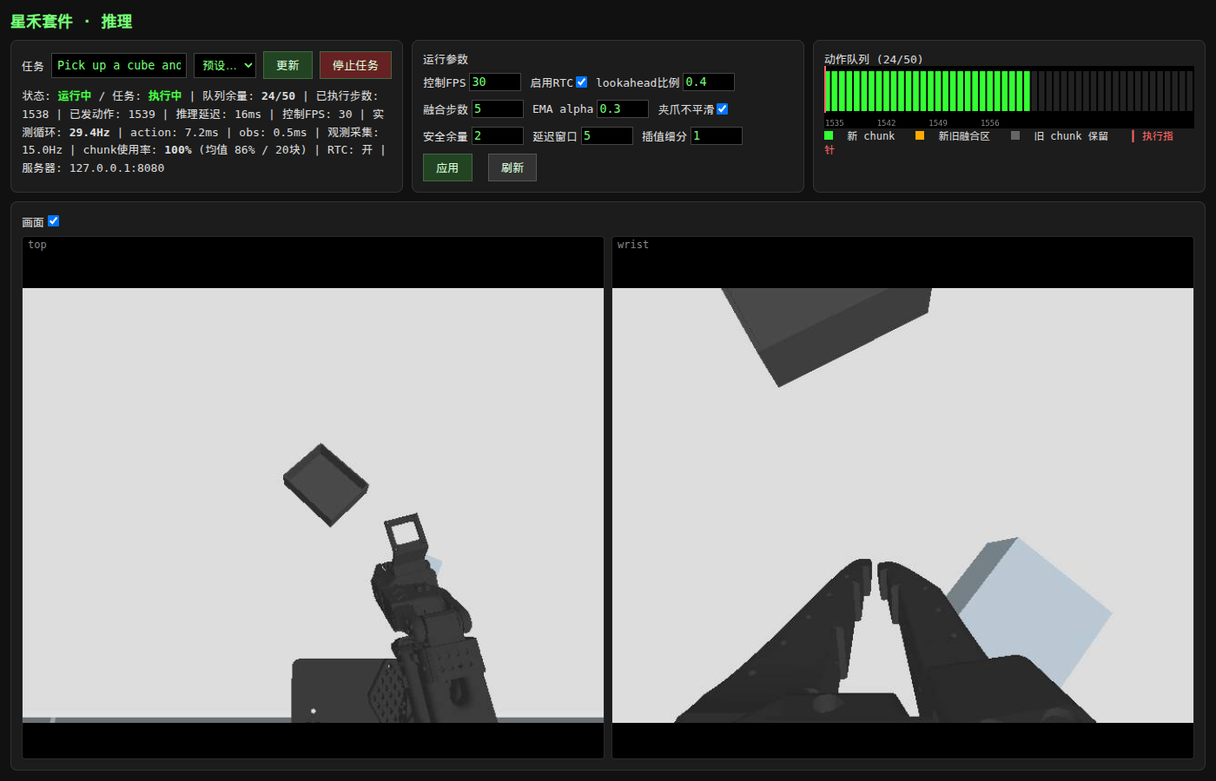
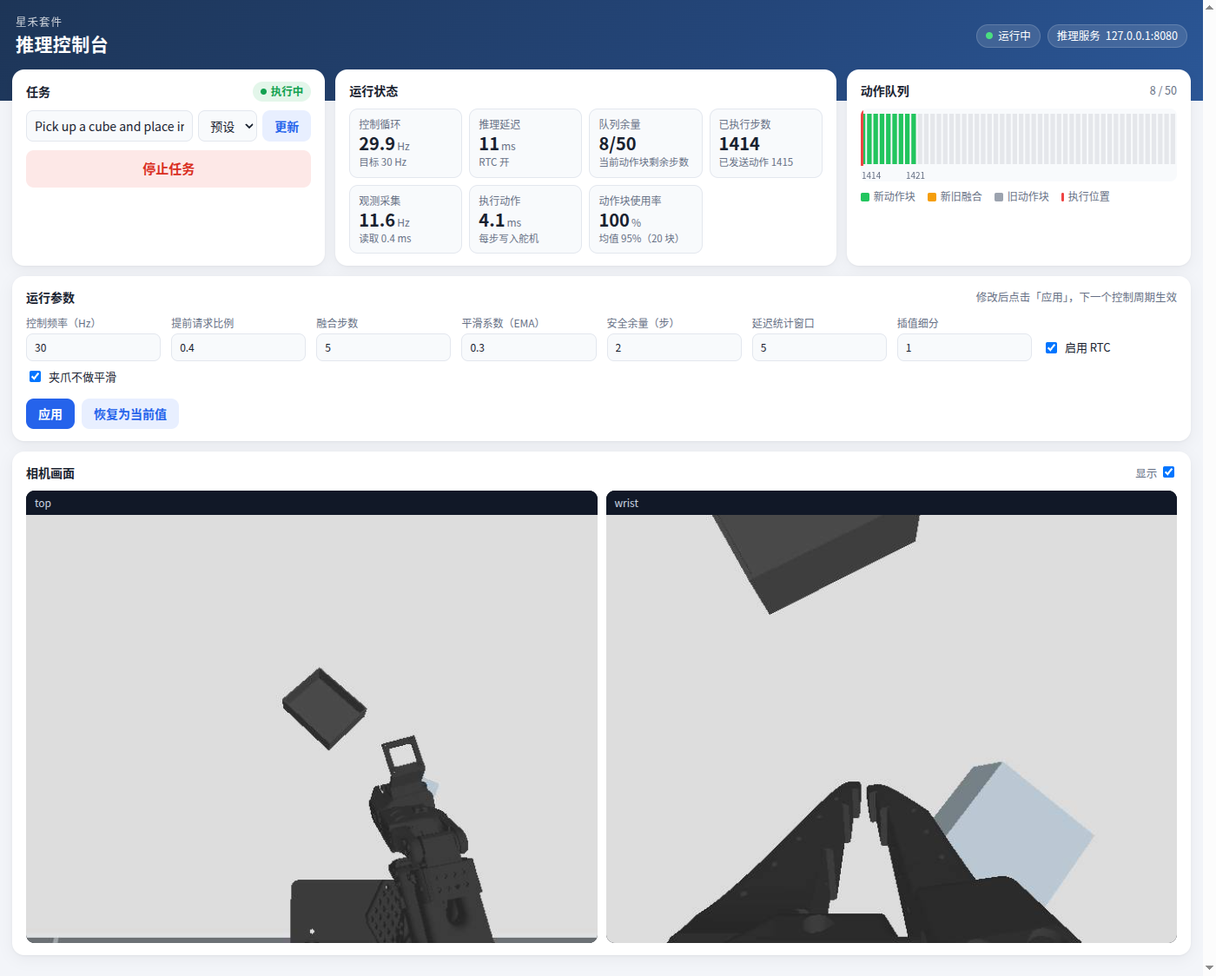
docs: 按使用者的位置重写：标明每步在哪台设备上操作；连接训练电脑提前到 2.6；看曲线分训练电脑在身边、经端侧计算平台转发、经自己电脑 SSH 转发三种，并给出 wandb
- 第 2 章开头说明三台设备与训练电脑在身边 / 在远处两种情况；安装 tmux
- 3.3 拷贝改为从端侧计算平台推送，训练电脑在远处也适用；3.4 补远程查看数据（distant 模式 + SSH 转发）
- 4.1 远程训练用 tmux；4.2 TensorBoard 两步：启动、按所在位置打开
- 推理控制台截图换成新版界面

diff --git a/docs/deploy.md b/docs/deploy.md
@@ -8,55 +8,30 @@
 
 <video controls muted playsinline preload="metadata" poster="_static/poster/deploy.jpg" src="_static/media/deploy.mp4"></video>
 
-本章按顺序启动推理服务、让端侧计算平台连接训练电脑、启动推理控制台。开始前请确认：已完成前四章，两边的 LeRobot 为同一版本，并有一个训练好的模型：第 4 章训练得到的模型，或我们发布的 [`Harrysunshine/so101-act-sim-real-cube`](https://huggingface.co/Harrysunshine/so101-act-sim-real-cube)。
+本章先在训练电脑上启动推理服务，再在端侧计算平台上启动推理控制台。开始前请确认：
+
+- 已完成前四章，两边的 LeRobot 为同一版本；
+- 端侧计算平台已按 [2.6 节](#connect-server) 连接训练电脑，并映射了「推理服务（8080）」；
+- 有一个训练好的模型：第 4 章训练得到的模型，或我们发布的 [`Harrysunshine/so101-act-sim-real-cube`](https://huggingface.co/Harrysunshine/so101-act-sim-real-cube)。
 
 (deploy-server)=
 ## 5.1 在训练电脑上启动推理服务
 
-在训练电脑上进入环境（[2.2 节](#train-env-setup)），执行：
+在**训练电脑的终端**中执行（训练电脑在远处时，建议在 tmux 中运行，见 [4.1 节](#train-run)）：
 
 ```bash
+cd ~/xbotics && source .venv/bin/activate
 python -m lerobot.async_inference.policy_server --host=127.0.0.1 --port=8080 --fps=30
 ```
 
-`--host=127.0.0.1` 表示推理服务只在本机监听，端侧计算平台经 5.2 节的连接访问它，电脑无需对外开放端口。推理服务不预先加载模型，端侧计算平台连接时指定使用哪个模型。部署期间保持这个终端打开，按 `Ctrl+C` 停止。
+推理服务只在训练电脑本机监听，端侧计算平台经 2.6 节的连接访问它，训练电脑无需对外开放端口。推理服务不预先加载模型，端侧计算平台连接时指定使用哪个模型。部署期间保持它运行，按 `Ctrl+C` 停止。
 
-(connect-server)=
-## 5.2 让端侧计算平台连接训练电脑
-
-在网络设置页（[1.2 节](#board-network)）的「连接服务器」标签中添加训练电脑，端侧计算平台会把电脑上的推理服务与 TensorBoard 映射到本机。电脑需先开启 SSH 服务，见 [2.5 节](#train-env-ssh)。推理与训练可以在同一台电脑上，也可以在不同的电脑上，每台电脑分别添加一次。
-
-1. 点击「添加服务器」，填写**名称**（便于区分，如「推理服务器」「训练服务器」）、**服务器地址**（电脑的 IP）、**SSH 端口**（通常为 22）、**账号**（电脑上的用户名）。
-2. 登录方式选择**账号密码**，填写该账号的密码。也可以选择**私钥**，将私钥完整粘贴进去，或点击「选择文件」。
-3. 在表单下方点击这台电脑提供的服务，添加映射：
-
-| 按钮 | 端侧端口 | 电脑上的端口 | 用途 |
-| --- | --- | --- | --- |
-| 推理服务（8080） | 8080 | 8080 | 推理控制台经它连接推理服务 |
-| TensorBoard（6006） | 6006 | 6006 | 查看训练曲线 |
-
-![添加服务器：填写名称、地址、账号与密码，点击下方按钮添加映射](images/use-18-add-server.png)
-
-4. 点击「保存并连接」。几秒后这台电脑的卡片右上角变为绿色「已连接」，每条映射标出状态：「畅通」表示电脑上该端口的服务已在运行；「服务器上该端口无服务」表示连接已建立，只是电脑上尚未启动该服务。
-
-![两台电脑均已连接：推理服务器上的推理服务与训练服务器上的 TensorBoard 均畅通](images/use-16-connect-server.png)
-
-连接后，端侧计算平台上的程序访问 `127.0.0.1:8080`，即访问训练电脑上的推理服务；在任意一台电脑的浏览器中打开 `http://<端侧IP>:6006`，即为训练电脑上的 TensorBoard，也可以点击映射旁的「打开」。网络中断或电脑重启后会自动重新连接，端侧计算平台重启后也会自动连接。每张卡片可以「编辑」「断开」「删除」。
-
-连接失败时，卡片中以中文给出原因：
-
-| 提示 | 处理 |
-| --- | --- |
-| 登录被拒 | 账号或密码不正确。修改后再次点击「保存并连接」；端侧计算平台不会用错误的密码反复重试，避免电脑锁定该账号 |
-| 找不到该服务器地址、连不上服务器 | 地址填写错误，或端侧计算平台与这台电脑不在同一网络 |
-| 服务器指纹已变化 | 电脑重新安装过系统，再次点击「保存并连接」即可 |
-
-![在电脑上经端侧计算平台打开训练电脑上的 TensorBoard](images/use-17-tensorboard.png)
+启动后，打开端侧计算平台网络设置页的「连接服务器」标签，推理服务一条映射应显示「畅通」。
 
 (deploy-console)=
-## 5.3 启动推理控制台
+## 5.2 启动推理控制台
 
-在端侧计算平台的网页终端（[1.1 节](#xbotics-config)）中，先设置相机变量（[1.7 节](#camera-var)），再执行：
+在**端侧计算平台的网页终端**（[1.1 节](#xbotics-config)）中，先设置相机变量（[1.7 节](#camera-var)），再执行：
 
 ```bash
 lerobot-inference-console \
@@ -81,21 +56,21 @@ lerobot-inference-console \
 /home/<用户名>/xbotics/outputs/train/act_pick_cube/checkpoints/last/pretrained_model
 ```
 
-启动后，推理服务加载模型（首次需要下载，耗时稍长），随后机械臂开始按模型的动作运动。在浏览器中打开 `http://<端侧IP>:8007`，即可看到相机画面、任务状态、动作队列与推理延迟：点击「停止任务」，机械臂停止执行动作，按钮变为「启动任务」，点击即继续；在「任务」框中修改任务描述后点击「更新」，下一次推理即使用新的描述。按网页终端中的 `Ctrl+C` 结束部署。
+启动后，推理服务加载模型（首次需要下载，耗时稍长），随后机械臂开始按模型的动作运动。在你的电脑或手机的浏览器中打开 `http://<端侧IP>:8007`，即可看到相机画面、任务状态、动作队列与推理延迟：点击「停止任务」，机械臂停止执行动作，按钮变为「启动任务」，点击即继续；在「任务」框中修改任务描述后点击「更新」，下一次推理即使用新的描述。按网页终端中的 `Ctrl+C` 结束部署。
 
-![推理控制台：上方为任务与运行状态、运行参数与动作队列，下方为两路相机画面（图为 5.5 节仿真中的运行）](images/use-22-inference-console.png)
+![推理控制台：上方为任务、运行状态与动作队列，中间为运行参数，下方为两路相机画面（图为 5.4 节仿真中的运行）](images/use-22-inference-console.png)
 
 推理控制台没有登录验证，同一网络中的任何人都能打开，请只在自己的局域网中使用。
 
-## 5.4 第一次上真机
+## 5.3 第一次上真机
 
 - 清空工作区，只留下物体与料盒；相机位置、光线与物体摆放尽量与录制数据时一致
 - 手放在电源开关旁，模型第一次运行时动作可能比预想的大，发现异常立即断电
 - `--robot.id` 须与标定时一致，`$CAMERAS` 中的相机名须与训练所用数据集一致
 
-## 5.5 没有机械臂时用仿真
+## 5.4 没有机械臂时用仿真
 
-把推理控制台连接的机器人换成 SO-101 仿真，整条部署链路即可在训练电脑上走通，适合先确认模型与推理服务工作正常。推理服务按 5.1 节启动，在训练电脑上另开一个终端，进入环境后执行：
+把推理控制台连接的机器人换成 SO-101 仿真，整条部署链路即可在训练电脑上走通，适合先确认模型与推理服务工作正常。推理服务按 5.1 节启动，在**训练电脑**上另开一个终端，进入环境后执行：
 
 ```bash
 python -c "import so101_sim.config_lerobot_robot; from lerobot.xbotics.inference_console.client import main; main()" \
@@ -104,6 +79,6 @@ python -c "import so101_sim.config_lerobot_robot; from lerobot.xbotics.inference
   --server_host=127.0.0.1 --server_port=8080 --actions_per_chunk=50 --fps=30
 ```
 
-第一行先导入仿真机器人的配置，其余参数与真机相同。在浏览器中打开 `http://localhost:8007`，界面与 5.3 节的图相同：画面中是仿真里的两路相机，状态为「运行中」、动作队列持续刷新，即表示模型与推理服务工作正常。
+第一行先导入仿真机器人的配置，其余参数与真机相同。在训练电脑的浏览器中打开 `http://localhost:8007`（训练电脑在远处时，按 4.2 节第三种方式把 8007 端口转发到你的电脑），界面与 5.2 节的图相同：画面中是仿真里的两路相机，状态为「运行中」、动作队列持续刷新，即表示模型与推理服务工作正常。
 
 到这里，你已经走完了从硬件准备、录制数据、训练到部署的整条流程。录制数据时如何设计任务、训练时如何选择模型与调整参数、上真机前如何评测，属于 Xbotics 具身智能课程的内容。

diff --git a/docs/train-env.md b/docs/train-env.md
@@ -1,6 +1,14 @@
 # 第 2 章 训练电脑
 
-训练、仿真评测与推理都在一台配有 NVIDIA 显卡的 x86 电脑上进行，操作系统为 Ubuntu。本章在这台电脑上安装 LeRobot 与 SO-101 仿真，并使端侧计算平台能够连接它。
+训练、仿真评测与推理都在一台配有 NVIDIA 显卡的 x86 电脑上进行，操作系统为 Ubuntu，下称**训练电脑**。整个流程会用到三台设备：
+
+| 设备 | 做什么 | 怎么操作 |
+| --- | --- | --- |
+| 端侧计算平台 | 连接机械臂与相机，录制数据、执行动作 | 在浏览器中打开它的网页终端 |
+| 训练电脑 | 训练模型、运行推理服务 | 坐在它前面直接用，或从你的电脑经 SSH 登录 |
+| 你的电脑或手机 | 打开各个网页：网页终端、训练曲线、推理控制台 | 浏览器 |
+
+训练电脑可以就在你身边（接显示器的台式机），也可以在机房或云上、只能经 SSH 登录。两种情况的做法只在少数几处不同，本书在这些地方分开写明。本章的命令都在**训练电脑的终端**中执行。
 
 ## 2.1 显卡驱动
 
@@ -16,7 +24,7 @@ nvidia-smi
 使用 uv 管理 Python 与依赖。先安装系统工具与 uv：
 
 ```bash
-sudo apt install -y git ffmpeg curl
+sudo apt install -y git ffmpeg curl tmux
 curl -LsSf https://astral.sh/uv/install.sh | sh
 source ~/.local/bin/env
 ```
@@ -47,13 +55,17 @@ source .venv/bin/activate
 | 组 | 作用 |
 | --- | --- |
 | `training`、`evaluation` | 训练与评测，查看训练曲线所用的 TensorBoard 与 wandb 也包含在 `training` 中 |
-| `dataset`、`viz` | 读写数据集、可视化 |
-| `async` | 远程推理服务端 |
+| `dataset`、`viz` | 读写数据集、查看数据 |
+| `async` | 推理服务 |
 | `smolvla` | SmolVLA 模型 |
 | `feetech` | 舵机驱动 |
 | `xbotics_tools` | 网页硬件检测、网页标定、推理控制台 |
 
-SO-101 仿真随 LeRobot 一同安装，无需另行安装。此后每次打开新终端，进入该目录后执行 `source .venv/bin/activate` 进入环境。
+SO-101 仿真随 LeRobot 一同安装，无需另行安装。此后每打开一个新终端（或新的 SSH 窗口），都先执行下面一行进入环境，本书后面的命令默认已进入环境：
+
+```bash
+cd ~/xbotics && source .venv/bin/activate
+```
 
 ## 2.3 检查
 
@@ -73,21 +85,51 @@ hf auth login
 ```
 
 (train-env-ssh)=
-## 2.5 允许端侧计算平台连接这台电脑
+## 2.5 开启 SSH 服务
 
-端侧计算平台通过 SSH 连接这台电脑（[5.2 节](#connect-server)），因此需先安装 SSH 服务，并记下这台电脑的 IP。推理与训练分在两台电脑上时，两台都按本节设置：
+端侧计算平台经 SSH 连接训练电脑：拷贝数据、查看训练曲线、部署都要用到。在训练电脑上安装 SSH 服务，并查看它的 IP：
 
 ```bash
 sudo apt install -y openssh-server
 hostname -I
 ```
 
-`hostname -I` 输出的第一个地址，即端侧计算平台网络设置页中「服务器地址」应填写的内容；账号与密码即你登录这台电脑所用的账号与密码。推理服务与 TensorBoard 默认只在本机监听，端侧计算平台经 SSH 接入，电脑无需对外开放其他端口。
+记下 `hostname -I` 输出的第一个地址（下称 `<训练电脑IP>`），以及你登录这台电脑所用的用户名与密码。云服务器通常已开启 SSH，`<训练电脑IP>` 用服务商给出的地址。端侧计算平台必须能访问这个地址：两者在同一个局域网中，或训练电脑有公网地址。
+
+(connect-server)=
+## 2.6 让端侧计算平台连接训练电脑
+
+这一步让端侧计算平台把训练电脑上的两个服务转发到自己身上：
+
+- **TensorBoard（6006）**：你的电脑打开 `http://<端侧IP>:6006` 即可看到训练曲线，训练电脑在远处时也一样；
+- **推理服务（8080）**：部署时端侧计算平台上的推理控制台经它访问推理服务。
+
+在你的电脑或手机上打开端侧计算平台的网络设置页（[1.2 节](#board-network)），进入「连接服务器」标签：
+
+1. 点击「添加服务器」，填写**名称**（便于区分，如「训练电脑」）、**服务器地址**（`<训练电脑IP>`）、**SSH 端口**（通常为 22）、**账号**（训练电脑上的用户名）。
+2. 登录方式选择**账号密码**，填写该账号的密码。也可以选择**私钥**，将私钥完整粘贴进去，或点击「选择文件」。
+3. 在表单下方点击「推理服务（8080）」与「TensorBoard（6006）」，添加两条映射。
+
+![添加服务器：填写名称、地址、账号与密码，点击下方按钮添加映射](images/use-18-add-server.png)
+
+4. 点击「保存并连接」。几秒后卡片右上角变为绿色「已连接」，每条映射标出状态：「畅通」表示训练电脑上该服务正在运行；「服务器上该端口无服务」表示连接已建立，只是训练电脑上还没有启动该服务（启动 TensorBoard 见 [4.2 节](#train-curves)，启动推理服务见 [5.1 节](#deploy-server)），启动后自动变为「畅通」。
+
+推理与训练也可以分在两台电脑上，每台分别添加一次，各自映射对应的服务。下图是这种情况：推理服务器提供推理服务，训练服务器提供 TensorBoard。
+
+![两台电脑均已连接，各自的映射畅通](images/use-16-connect-server.png)
+
+连接会一直保持：网络中断或训练电脑重启后自动重新连接，端侧计算平台重启后也会自动连接。每张卡片可以「编辑」「断开」「删除」。连接失败时，卡片中以中文给出原因：
+
+| 提示 | 处理 |
+| --- | --- |
+| 登录被拒 | 账号或密码不正确。修改后再次点击「保存并连接」；端侧计算平台不会用错误的密码反复重试，避免训练电脑锁定该账号 |
+| 找不到该服务器地址、连不上服务器 | 地址填写错误，或端侧计算平台访问不到训练电脑，见 2.5 节 |
+| 服务器指纹已变化 | 训练电脑重新安装过系统，再次点击「保存并连接」即可 |
 
 (train-env-upgrade)=
-## 2.6 升级
+## 2.7 升级
 
-端侧计算平台升级时（[1.1 节](#board-upgrade)），这台电脑也需同步升级，保持同一版本：
+端侧计算平台升级时（[1.1 节](#board-upgrade)），训练电脑也需同步升级，保持同一版本：
 
 ```bash
 cd ~/xbotics && uv lock --upgrade-package lerobot && uv sync

diff --git a/docs/train.md b/docs/train.md
@@ -1,9 +1,11 @@
 # 第 4 章 训练
 
-本章在训练电脑上用录好的数据训练一个 ACT 模型，训练过程中用 TensorBoard 或 wandb 查看曲线，训练完成后得到可以部署的模型。命令均在训练电脑上、`~/xbotics` 目录中进入环境后执行（[2.2 节](#train-env-setup)）。
+本章在训练电脑上用录好的数据训练一个 ACT 模型，训练过程中查看曲线，训练完成后得到可以部署的模型。训练命令在**训练电脑的终端**中执行，查看曲线在**你的电脑或手机的浏览器**中进行。
 
 (train-run)=
 ## 4.1 开始训练
+
+训练电脑在远处、经 SSH 登录时，先执行 `tmux new -s train` 进入一个 tmux 会话，再在其中启动训练：这样关掉 SSH 窗口或网络断开，训练也不会中断。之后需要回来查看时，重新 SSH 登录并执行 `tmux attach -t train`；在会话中按 `Ctrl+B` 后再按 `D` 即可离开，训练继续运行。训练电脑就在身边时，直接在终端中执行即可。
 
 ```bash
 cd ~/xbotics && source .venv/bin/activate
@@ -27,16 +29,30 @@ lerobot-train \
 (train-curves)=
 ## 4.2 用 TensorBoard 查看曲线
 
-`lerobot-train` 默认把曲线写入输出目录下的 `tensorboard` 中，无需账号与网络。训练开始后另开一个终端，进入环境后执行：
+`lerobot-train` 默认把曲线写入输出目录下的 `tensorboard` 中，无需账号与网络。查看分两步：在训练电脑上启动 TensorBoard，再在浏览器中打开它。
+
+**第一步，在训练电脑上启动 TensorBoard。** 另开一个终端（训练电脑在远处时，另开一个 SSH 窗口，同样建议在 tmux 中运行，例如 `tmux new -s tb`），执行：
 
 ```bash
 cd ~/xbotics && source .venv/bin/activate
 tensorboard --logdir outputs/train
 ```
 
-在浏览器中打开 `http://localhost:6006`，数秒内即可看到新的数据点。`--logdir` 指定 `outputs/train` 时，可同时比较多次训练。要在其他电脑上查看，按 [5.2 节](#connect-server) 让端侧计算平台连接这台电脑后，打开 `http://<端侧IP>:6006`。
+终端显示 `TensorBoard ... at http://localhost:6006/` 即已启动，保持它运行。`--logdir` 指定 `outputs/train` 时，可同时比较多次训练。
+
+**第二步，在浏览器中打开。** TensorBoard 只在训练电脑本机监听，按你所在的位置选择一种方式：
+
+| 你在哪里 | 怎么打开 |
+| --- | --- |
+| 坐在训练电脑前 | 在训练电脑的浏览器中打开 `http://localhost:6006` |
+| 在端侧计算平台所在的网络中，且已按 [2.6 节](#connect-server) 连接训练电脑 | 在你的电脑或手机上打开 `http://<端侧IP>:6006`，或在网络设置页「打开网页」标签中点击 TensorBoard |
+| 在其他地方，能经 SSH 登录训练电脑 | 在你的电脑上另开一个终端执行 `ssh -N -L 6006:127.0.0.1:6006 <用户名>@<训练电脑IP>` 并保持窗口打开，再在浏览器中打开 `http://localhost:6006` |
+
+第二种方式由端侧计算平台转发：网络设置页「连接服务器」中 TensorBoard 一条映射显示「畅通」，即可打开。第三种方式由你电脑上的 SSH 转发，Windows 在 PowerShell 中同样可以执行这条命令。
 
 ![训练曲线：损失、梯度、吞吐与显存](images/use-17-tensorboard.png)
+
+数秒内即可看到新的数据点。各条曲线的含义：
 
 | 曲线 | 含义 |
 | --- | --- |
@@ -50,7 +66,7 @@ tensorboard --logdir outputs/train
 (train-wandb)=
 ## 4.3 用 wandb 查看曲线
 
-wandb 把曲线上传到网页，换一台电脑、在手机上也能查看。先在 [wandb.ai](https://wandb.ai) 注册账号，在训练电脑上登录一次，按提示粘贴网页上给出的 API key：
+wandb 把曲线上传到它的网站，在任何地方的浏览器中登录即可查看，不需要任何转发，训练电脑在远处时最省事；前提是训练电脑能访问外网。先在 [wandb.ai](https://wandb.ai) 注册账号，在训练电脑上登录一次，按提示粘贴网页上给出的 API key：
 
 ```bash
 wandb login
@@ -66,7 +82,7 @@ lerobot-train \
   --wandb.enable=true
 ```
 
-训练开始后，终端会给出本次训练的网址；也可以在 wandb 网页上的 `lerobot` 项目中找到它。曲线的名字与 TensorBoard 相同，TensorBoard 照常写入，两者可同时使用。
+训练开始后，终端会给出本次训练的网址；也可以在 wandb 网站的 `lerobot` 项目中找到它。曲线的名字与 TensorBoard 相同，TensorBoard 照常写入，两者可同时使用。
 
 (train-output)=
 ## 4.4 训练结果
@@ -81,7 +97,7 @@ outputs/train/act_pick_cube/checkpoints/
 └── last -> 100000
 ```
 
-部署时使用其中的 `pretrained_model` 目录，例如 `~/xbotics/outputs/train/act_pick_cube/checkpoints/last/pretrained_model`，见 [5.3 节](#deploy-console)。
+部署时使用其中的 `pretrained_model` 目录，例如 `~/xbotics/outputs/train/act_pick_cube/checkpoints/last/pretrained_model`，见 [5.2 节](#deploy-console)。
 
 ## 4.5 中断后继续训练
 

diff --git a/docs/record.md b/docs/record.md
@@ -2,7 +2,7 @@
 
 录制时，操作者握持主臂完成任务，从臂同步跟随，端侧计算平台把两路相机画面、从臂的关节读数与主臂给出的动作一同保存为数据集。录好后可以在端侧计算平台上回放检查，再拷贝到训练电脑查看与训练。
 
-本章的录制与回放在端侧计算平台的网页终端中执行，开始前请完成第 1 章，并设置相机变量（[1.7 节](#camera-var)）。没有机械臂、或想先走通后面的训练与部署，可以直接使用我们开源的数据，见 [3.5 节](#open-data)。
+录制、回放与拷贝在**端侧计算平台的网页终端**中执行，开始前请完成第 1 章，并设置相机变量（[1.7 节](#camera-var)）；查看数据在训练电脑上进行。没有机械臂、或想先走通后面的训练与部署，可以直接使用我们开源的数据，见 [3.5 节](#open-data)。
 
 ## 3.1 录制
 
@@ -55,18 +55,19 @@ lerobot-replay \
 (record-copy)=
 ## 3.3 拷贝到训练电脑
 
-在**训练电脑**的终端中执行，密码为 `123456`：
+在**端侧计算平台的网页终端**中执行，把数据集推送到训练电脑的 `~/data` 中。`<用户名>` 与 `<训练电脑IP>` 见 [2.5 节](#train-env-ssh)，每条命令会提示输入训练电脑的密码，首次连接时先输入 `yes`：
 
 ```bash
-mkdir -p ~/data && scp -r root@<端侧IP>:data/pick_cube ~/data/
+ssh <用户名>@<训练电脑IP> mkdir -p data
+scp -r ~/data/pick_cube <用户名>@<训练电脑IP>:data/
 ```
 
-完成后，训练电脑上的 `~/data/pick_cube` 即为这份数据集，后续查看与训练都使用这个路径。
+训练电脑在近处、远处都适用。训练电脑的 SSH 端口不是 22 时，在 `ssh` 后加 `-p <端口>`，在 `scp` 后加 `-P <端口>`。完成后，训练电脑上的 `~/data/pick_cube` 即为这份数据集，后续查看与训练都使用这个路径。
 
 (record-viz)=
 ## 3.4 查看数据
 
-在训练电脑上进入环境（[2.2 节](#train-env-setup)），逐集查看录下的数据：
+逐集查看录下的画面与曲线。训练电脑在你身边时，在**训练电脑的终端**中执行：
 
 ```bash
 lerobot-dataset-viz --repo-id local/pick_cube --root ~/data/pick_cube --episode-index 0
@@ -76,10 +77,33 @@ lerobot-dataset-viz --repo-id local/pick_cube --root ~/data/pick_cube --episode-
 
 ![Rerun 查看器：开源数据中「将方块放入料盒」的一集](images/use-23-dataset-viz.png)
 
+**训练电脑在远处、没有显示器时**，让它以网页形式提供查看器，再从你的电脑经 SSH 转发打开：
+
+1. 在训练电脑上（经 SSH 登录后）执行：
+
+```bash
+lerobot-dataset-viz --repo-id local/pick_cube --root ~/data/pick_cube --episode-index 0 \
+  --mode distant --web-port 9090 --grpc-port 9876
+```
+
+2. 在**你的电脑**上另开一个终端（Windows 用 PowerShell），执行下面一行并保持窗口打开：
+
+```bash
+ssh -N -L 9090:127.0.0.1:9090 -L 9876:127.0.0.1:9876 <用户名>@<训练电脑IP>
+```
+
+3. 在你的电脑的浏览器中打开下面的网址，界面与上图相同：
+
+```text
+http://localhost:9090/?url=rerun%2Bhttp%3A%2F%2Flocalhost%3A9876%2Fproxy
+```
+
+看完后在两个窗口中分别按 `Ctrl+C` 结束。
+
 (open-data)=
 ## 3.5 使用开源数据
 
-我们录制并开源了九个任务的 SO-101 真机数据，格式与 3.1 节录制的数据相同，可以直接用于训练。在训练电脑上下载其中「将方块放入料盒」一个任务：
+我们录制并开源了九个任务的 SO-101 真机数据，格式与 3.1 节录制的数据相同，可以直接用于训练。在**训练电脑的终端**中下载其中「将方块放入料盒」一个任务：
 
 ```bash
 uvx modelscope download --dataset zhuzhuangtian/so101-pick-place-tasks \

diff --git a/docs/hardware.md b/docs/hardware.md
@@ -15,8 +15,8 @@
 | `http://<端侧IP>:8004` | 浏览器版 VS Code | 服务开启时 |
 | `http://<端侧IP>:8005` | 硬件检测 | 服务开启时 |
 | `http://<端侧IP>:8006` | 网页标定 | 服务开启时 |
-| `http://<端侧IP>:8007` | 推理控制台 | 部署期间，见 [5.3 节](#deploy-console) |
-| `http://<端侧IP>:6006` | 训练电脑上的 TensorBoard | 已连接训练电脑时，见 [5.2 节](#connect-server) |
+| `http://<端侧IP>:8007` | 推理控制台 | 部署期间，见 [5.2 节](#deploy-console) |
+| `http://<端侧IP>:6006` | 训练电脑上的 TensorBoard | 已连接训练电脑时，见 [2.6 节](#connect-server) |
 | `http://<端侧IP>:9090` | 录制预览：相机画面与关节曲线 | 遥操作、录制数据期间 |
 
 `<端侧IP>` 为端侧计算平台的地址：连接其热点时为 `10.42.0.1`，接入你的网络后为 1.2 节中显示的地址；局域网中也可以用 `xbotics-XXXX.local` 代替（后四位与热点名相同）。用户名为 `root`，默认密码为 `123456`，网页终端、JupyterLab、VS Code 与 SSH 均使用该密码。请只在自己的局域网中使用，不要将这些端口映射到公网。
@@ -38,7 +38,7 @@
 xbotics-config status
 ```
 
-输出列出各网页服务是否开机自启、是否正在运行及其网址；最后几行 `tunnel@<编号>` 是已连接的训练电脑，见 [5.2 节](#connect-server)。
+输出列出各网页服务是否开机自启、是否正在运行及其网址；最后几行 `tunnel@<编号>` 是已连接的训练电脑，见 [2.6 节](#connect-server)。
 
 ![xbotics-config status：五个网页服务，以及已连接的两台训练电脑](images/use-14-xbotics-config-status.png)
 
